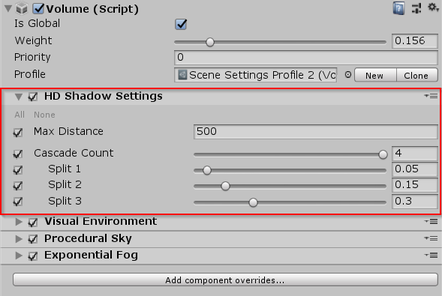
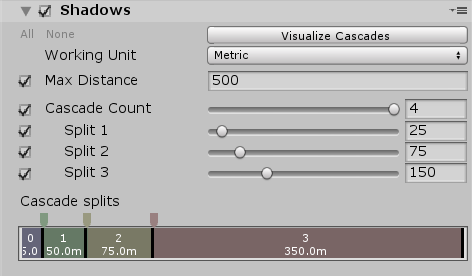
Fog and Layers

diff --git a/Pages/HDRP/HD-Shadow-Settings.md b/Pages/HDRP/HD-Shadow-Settings.md
@@ -1,13 +1,35 @@
-The HD Shadow Settings Volume component override control the maximum distance at which HDRP renders shadow cascades and shadows from [punctual lights](https://github.com/Unity-Technologies/ScriptableRenderPipeline/wiki/Glossary#PunctualLight). It uses cascade splits to control the quality of shadows cast by Directional Lights over distance from the Camera.
+The **Shadows** [Volume override](https://github.com/Unity-Technologies/ScriptableRenderPipeline/wiki/Volume-Overrides) controls the maximum distance at which HDRP renders shadow cascades and shadows from [punctual lights](https://github.com/Unity-Technologies/ScriptableRenderPipeline/wiki/Glossary#PunctualLight). It uses cascade splits to control the quality of shadows cast by Directional Lights over distance from the Camera.
 
-This HD Shadow Settings override comes as default when you create a __Scene Settings__ GameObject (Menu: __GameObject > Rendering > Scene Settings__).
+The **Shadows** override comes as default when you create a **Scene Settings** GameObject (Menu: **GameObject > Rendering > Scene Settings**). You can also manually add a **Shadows** override to any [Volume](https://github.com/Unity-Technologies/ScriptableRenderPipeline/wiki/Volumes). Select the Volume component in the Scene or Hierarchy to view it in the Inspector, then navigate to **Add Override > Shadowing** and click on **Shadows**.
+
+
+
+## Properties
 
 ![](https://github.com/Unity-Technologies/ScriptableRenderPipeline/wiki/Pages/HDRP/Images/SceneSettingsHDShadowSettings1.png)
 
-| Property          | Description                                                  |
+| **Property**      | **Description**                                              |
 | ----------------- | ------------------------------------------------------------ |
-| **Max Distance**  | The maximum distance at which HDRP renders shadows. HDRP uses this for punctual Lights and as the last boundary for the final cascade. |
-| **Cascade Count** | The number of cascades for Direction Lights that can cast shadows. Cascades work as a shadow levels of detail (LOD). The quality loss in the cascades further from the Camera occurs because each cascade has its own shadow map and the cascades get progressively larger. This means that HDRP spread the same resolution shadow map over a larger area. |
-| **Split 1**       | The limit between the first and second cascade split (expressed as a percentage of Max Distance). |
-| **Split 2**       | The limit between the second and third cascade split (expressed as a percentage of Max Distance). |
-| **Split 3**       | The limit between the third and final split (expressed as a percentage of Max Distance). |
+| **Working Unit**  | Use the drop-down to select the unit that you want to use to define the cascade splits.<br />**Metric**: Defines cascade splits in meters.<br />**Percent**: Defines cascade splits as a percentage of **Max Distance**. |
+| **Max Distance**  | The maximum distance (in meters) at which HDRP renders shadows. HDRP uses this for punctual Lights and as the last boundary for the final cascade. |
+| **Cascade Count** | The number of cascades for Direction Lights that can cast shadows. Cascades work as levels of detail (LOD) for shadows. Each cascade has its own shadow map, and the cascade area gets progressively larger as they get further from the Camera. HDRP spreads the same resolution shadow map over each cascade area, so cascades closer to the Camera have higher quality shadows than those further from the Camera. |
+| **Split 1**       | The distance of the split between the first and second cascades. The **Working Unit** defines the unit this property uses. |
+| **Split 2**       | The distance of the split between the second and third cascades. The **Working Unit** defines the unit this property uses. |
+| **Split 3**       | The distance of the split between the third and final cascades. The **Working Unit** defines the unit this property uses. |
+
+## Visualizing the shadow cascades
+
+The Shadows override also allows you to visualize the cascade sizes in the Inspector, as well as the boundaries of the cascades as they appear inside your Scene in real time.
+
+In the Inspector, the **Cascade Splits** bar allows you to see the size of each cascade relative to one another. You can also move the position of each cascade split. To do so, click on the tab above a split and drag it to adjust the position of that cascade split.
+
+![](https://github.com/Unity-Technologies/ScriptableRenderPipeline/wiki/Pages/HDRP/Images/SceneSettingsHDShadowSettings2.png)
+
+In the Scene view and the Game view, the cascade visualization feature allows you to see the boundaries of each cascade in your Scene. Each color represents a separate cascade, and the colors match those in the **Cascade Splits** bar. This allows you to see which colored area matches which cascade.
+
+![](https://github.com/Unity-Technologies/ScriptableRenderPipeline/wiki/Pages/HDRP/Images/SceneSettingsHDShadowSettings3.png)
+
+To activate cascade visualization, click the **Visualize Cascades** button. You can now see the shadow maps in the Scene view and the Game view. 
+
+- You can use the Scene view Camera to move around your Scene and quickly visualize the shadow maps of different areas.
+- You can use the Game view Camera to visualize the shadow maps from the point of view of the end user. You can use the **Visualize Cascades** feature while in Play Mode, which is useful if you have some method of controlling the Camera’s position and rotation and want to see the shadow maps from different points of view in your Project.

diff --git a/Pages/HDRP/Light-Layers.md b/Pages/HDRP/Light-Layers.md
@@ -1,0 +1,42 @@
+The High Definition Render Pipeline (HDRP) allows you to use Light Layers, which are [LayerMasks](https://docs.unity3d.com/ScriptReference/LayerMask.html), to make Lights in your Scene only light up specific Meshes. You set Light Layers for Lights and Meshes to make Lights only affect Meshes that are on corresponding Light Layers.
+
+## Enabling Light Layers
+
+To use Light Layers, you must enable them in your Project’s [HDRP Asset](https://github.com/Unity-Technologies/ScriptableRenderPipeline/wiki/HDRP-Asset). You can then enable Light Layers in your default [Frame Settings](https://github.com/Unity-Technologies/ScriptableRenderPipeline/wiki/Frame-Settings) to set your Cameras to process Light Layers.
+
+1. Select the HDRP Asset in the Project window and, in the Inspector, go to the **Lighting** section and enable the **Light Layers** checkbox.
+2. To enable Light Layers in the default Frame Settings for all Cameras, in your HDRP Asset, go to the **Default Frame Settings For** section, select **Camera** from the drop-down and, in the **Lighting** section, enable the **Light Layers** checkbox. 
+
+To override the Frame Settings for Cameras and set Light Layers on an individual basis:
+
+1. 1. Click on a Camera in the Scene view or Hierarchy window to view its properties in the Inspector. 
+   2. Go to the **General** section and enable the **Custom Frame Settings** checkbox. This exposes the **Frame Settings Overrides,** which you can use to customize this Camera only. 
+   3. In the **Lighting** section, enable the **Light Layers** checkbox to make this Camera use Light Layers.
+
+## Using Light Layers
+
+After you enable Light Layers, you can then use them to decouple Meshes from certain Lights in your Scene. To do this:
+
+1. Click on a Light in the Hierarchy or the Scene view to view it in the Inspector.
+2. Expose the [advanced properties](https://github.com/Unity-Technologies/ScriptableRenderPipeline/wiki/Advanced-Properties) in the **General** section to expose the **Light Layer** property.
+3. Use the **Light Layer** property drop-down to select which Light Layers this Light affects.
+4. Click on a Mesh Renderer in the Hierarchy or the Scene view to view it in the Inspector.
+5. Use the **Rendering Layer Mask** drop-down to select which Light Layers affect this Mesh Renderer. When you enable Light Layers, a Light only affects a Mesh Renderer if they both use a matching Light Layer.
+
+## Example scenario
+
+Using [cookies](https://docs.unity3d.com/Manual/Cookies.html) for light fixtures can sometimes have a negative visual effect on a bulb, such as self-shadowing or transmission contribution. You can use Light Layers to make a bulb Mesh not receive any light from the Light’s cookie, and instead receive light from a separate small Point Light.
+
+The Light cookie incorrectly affects the transmission of this bulb’s geometry.
+
+![](https://github.com/Unity-Technologies/ScriptableRenderPipeline/wiki/Pages/HDRP/Images/LightLayers1.png)
+
+Assigning the bulb’s Mesh Renderer to a specific Light Layer means that the Light cookie no longer affects the bulb’s Mesh Renderer.
+
+![](https://github.com/Unity-Technologies/ScriptableRenderPipeline/wiki/Pages/HDRP/Images/LightLayers2.png)
+
+To restore the transmission effect, create a Point Light and assign it to the same Light Layer as the bulb’s Mesh Renderer . Now this Point Light only affects the bulb’s Mesh Renderer and does not contribute to the rest of the Scene Lighting.
+
+![](https://github.com/Unity-Technologies/ScriptableRenderPipeline/wiki/Pages/HDRP/Images/LightLayers3.png)
+
+For more information on this process, see Pierre Donzallaz’s [expert guide](https://docs.unity3d.com/uploads/ExpertGuides/Create_High-Quality_Light_Fixtures_in_Unity.pdf) on creating high quality light fixtures in Unity.

diff --git a/Pages/HDRP/Linear-Fog.md b/Pages/HDRP/Linear-Fog.md
@@ -1,0 +1,27 @@
+The High Definition Render Pipeline (HDRP) provides a type of [fog](Fog-Overview.html) called Linear Fog). Linear Fog enables you to linearly increase the density of fog at a certain distance from the Camera. The fog density increases until it reaches a maximum density at a further distance.
+
+## Using Linear Fog
+
+Linear Fog uses the [Volume](https://github.com/Unity-Technologies/ScriptableRenderPipeline/wiki/Volumes.) framework, which means that to enable and modify Linear Fog properties, you must add a **Linear Fog** override to a [Volume](https://github.com/Unity-Technologies/ScriptableRenderPipeline/wiki/Volumes) in your Scene.
+
+To add **Linear Fog** to a Volume, select the Volume component in the Scene or Hierarchy to view it in the Inspector, then navigate to **Add override > Fog** and click on **Linear Fog**. 
+
+After you add a **Linear Fog** override, you must set the Volume to use Linear Fog. The [Visual Environment](https://github.com/Unity-Technologies/ScriptableRenderPipeline/wiki/Visual-Environment) override controls which type of fog the Volume uses. In the Visual Environment override, navigate to the **Fog** section and set the **Type** to **Linear Fog**. HDRP now applies **Linear Fog** to any Camera this Volume affects.
+
+## Properties
+
+![](https://github.com/Unity-Technologies/ScriptableRenderPipeline/wiki/Pages/HDRP/Images/LinearFog1.png)
+
+| **Property**         | **Description**                                              |
+| -------------------- | ------------------------------------------------------------ |
+| **Density**          | Use the slider to set the maximum density of the fog. This acts as a global multiplier. Higher values produce thicker fog. |
+| **Fog Start**        | The distance from the Camera at which the fog density begins to increase from 0. |
+| **Fog End**          | The distance from the Camera at which the fog density reaches the value you set in **Density**. |
+| **Fog Height Start** | The height (in world space) at which the fog density begins to decrease. |
+| **Fog Height End**   | The height at which the fog density reaches 0.               |
+| **Max Fog Distance** | The maximum distance of the fog from the Camera.             |
+| **Color Mode**       | Use the drop-down to select the mode HDRP uses to calculate the color of the fog. **Sky Color**: HDRP shades the fog with a color it samples from the sky cubemap and its mip maps. **Constant Color**: HDRP shades the fog with the color you set manually in the **Constant Color** field that appears when you select this option. |
+| **Mip Fog Near**     | The distance (in meters) from the Camera that HDRP stops sampling the lowest resolution mip map for the fog color. This property only appears when you set **Color Mode** to **Sky Color**. |
+| **Mip Fog Far**      | The distance (in meters) from the Camera that HDRP starts sampling the highest resolution mip map for the fog color. This property only appears when you set **Color Mode** to **Sky Color**. |
+| **Mip Fog Max Mip**  | Use the slider to set the maximum mip map that HDRP uses for the mip fog. This defines the mip map that HDRP samples for distances greater than **Mip Fog Far**. This property only appears when you set **Color Mode** to **Sky Color**. |
+| **Constant Color**   | Use the color picker to select the color of the fog. This property only appears when you set **Color Mode** to **Constant Color**. |
